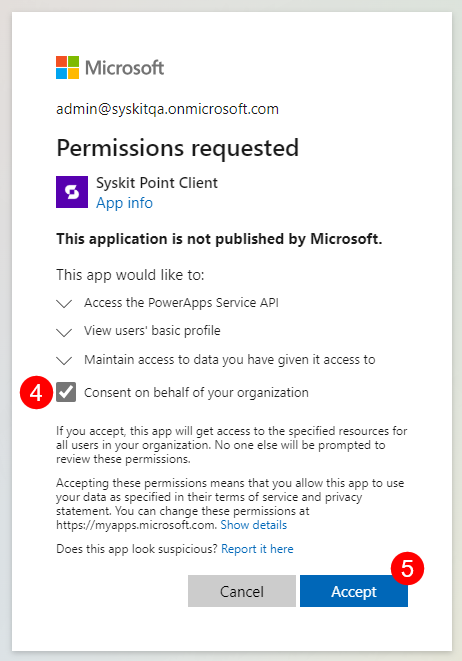
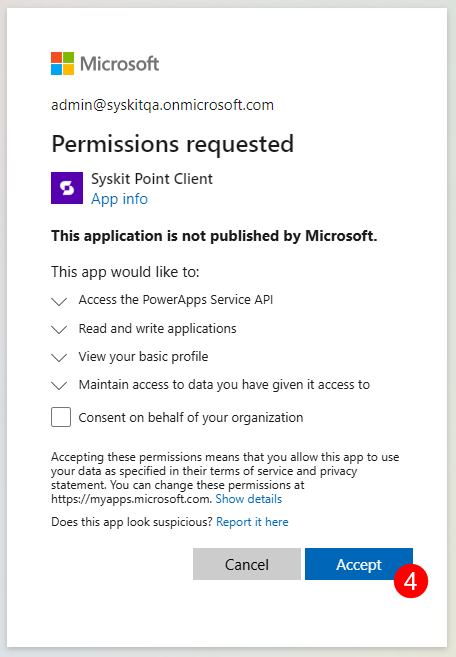
Power Platform Add-on Consent & Permissions updates

Changed region(s): [[0.0, 0.0, 0.9825, 1.0], [0.0921, 0.0609, 0.3684, 0.1218], [0.8289, 0.7306, 0.8596, 0.761]]

diff --git a/requirements/permission-requirements-change-log.md b/requirements/permission-requirements-change-log.md
@@ -75,12 +75,18 @@ Syskit Point **does not read or save** the content of messages to detect Microso
 
 {% hint style="warning" %}
 **Syskit Point will require reconsent only if you enabled Power Platform data collection in one of the previous versions.**\
-**New permission is added for the app registration after reconsenting if the Power Platform data collection is enabled.**
+**New permissions are added for the app registration after reconsenting if the Power Platform data collection is enabled.**
 {% endhint %}
 
-**The following permission is added to the existing Syskit Point app registration**:
+**The following permissions are added to the existing Syskit Point app registration**:
 
-<table><thead><tr><th>App Registration</th><th width="210">API/Permissions Name</th><th width="115">Permission</th><th width="104">Type</th><th>Reason</th></tr></thead><tbody><tr><td>Syskit Point Client</td><td>PowerApps Service/User</td><td>Access the PowerApps Service API</td><td>Delegated</td><td>Allows you to run Power Platform actions in Syskit Point.</td></tr></tbody></table>
+<table><thead><tr><th>App Registration</th><th width="210">API/Permissions Name</th><th width="115">Permission</th><th width="104">Type</th><th>Reason</th></tr></thead><tbody><tr><td>Syskit Point Client</td><td>PowerApps Service/User</td><td>Access the PowerApps Service API</td><td>Delegated</td><td>Allows you to run Power Platform actions in Syskit Point.</td></tr>
+<tr><td>Syskit Point Client enterprise app</td><td>Graph/Application.ReadWrite.All</td><td>Read and write all applications</td><td>Delegated</td><td>Enables Syskit Point to update the Syskit Point Client app registration on behalf of the signed-in user.</td></tr></tbody></table>
+
+{% hint style="warning" %}
+**Please note!**
+The Application.ReadWrite.All permission is used only once to update the Syskit Point Client app registration with the required PowerApps Service/User permission. After the permission is added, you can remove the Application.ReadWrite.All permission from the Syskit Point Client enterprise app.
+{% endhint %}
 
 ### Syskit Point Cloud 2025.1.77
 

diff --git a/requirements/permission-requirements.md b/requirements/permission-requirements.md
@@ -167,6 +167,7 @@ Permissions are added when Power Apps and Power Automate data collection is enab
 | Syskit Point Client | PowerAppManagementApp | Allows Syskit Point to access the PowerApps Service API and collect Power Platform resources data.  |
 | Syskit Point Power Platform | PowerAppManagementApp | Allows Syskit Point to access the PowerApps Service API and collect Power Platform resources data. |
 
+
 {% hint style="warning" %}
 **Please note!**  
 Added permissions for Power Apps and Power Automate data collection are not visible in the Microsoft Entra interface. 
@@ -180,6 +181,12 @@ To manage the permissions, you can run the related PowerShell cmdlets described 
 | API/Permissions Name                     | Permission                        | Type      | Reason                                                                                         |
 | ---------------------------------------- | --------------------------------- | --------- | ---------------------------------------------------------------------------------------------- |
 | PowerApps Service/User | Access the PowerApps Service API | Delegated | Allows you to run Power Platform actions in Syskit Point. |
+| Graph/Graph/Application.ReadWrite.All | Read and write all applications | Delegated | Enables Syskit Point to update the Syskit Point Client app registration on behalf of the signed-in user. |
+
+{% hint style="warning" %}
+**Please note!**
+The Application.ReadWrite.All permission is used only once to update the Syskit Point Client app registration with the required PowerApps Service/User permission. After the permission is added, you can remove the Application.ReadWrite.All permission from the Syskit Point Client enterprise app.
+{% endhint %}
 
 ### Syskit Point Permissions Loader
 

diff --git a/power-platform/power-platform.md b/power-platform/power-platform.md
@@ -37,10 +37,14 @@ To collect Power Platform data, you need to **consent** for Syskit Point to star
 
 * **Click the Login with Microsoft Authentication flow (3)** button and **log in with the Global Administrator account**
   * The confirmation modal appears, listing the permissions required for the Power Platform data collection
-  * **Select the 'Consent on behalf of your organization' checkbox (4)** to provide Syskit Point with access to the specified resources
-  * Note that the Power Platform data will not be collected until consented
   * For more information about the permissions, check the [Permission Requirements Change Log article](../requirements/permission-requirements-change-log.md#syskit-point-cloud-2025177)
-* **Click Accept (5)** to start collecting Power Platform data in Syskit Point
+* **Click Accept (4)** to start collecting Power Platform data in Syskit Point
+
+{% hint style="warning" %}
+**Please note!**
+The Read and Write applications permission (Graph/Application.ReadWrite.All) is used only once to update the Syskit Point Client app registration with the required PowerApps Service/User permission. After the permission is added, you can remove the Application.ReadWrite.All permission from the Syskit Point Client enterprise app.
+{% endhint %}
+
 
 ![Configure Power Platform](../.gitbook/assets/power-platform-configuration.png)
 
